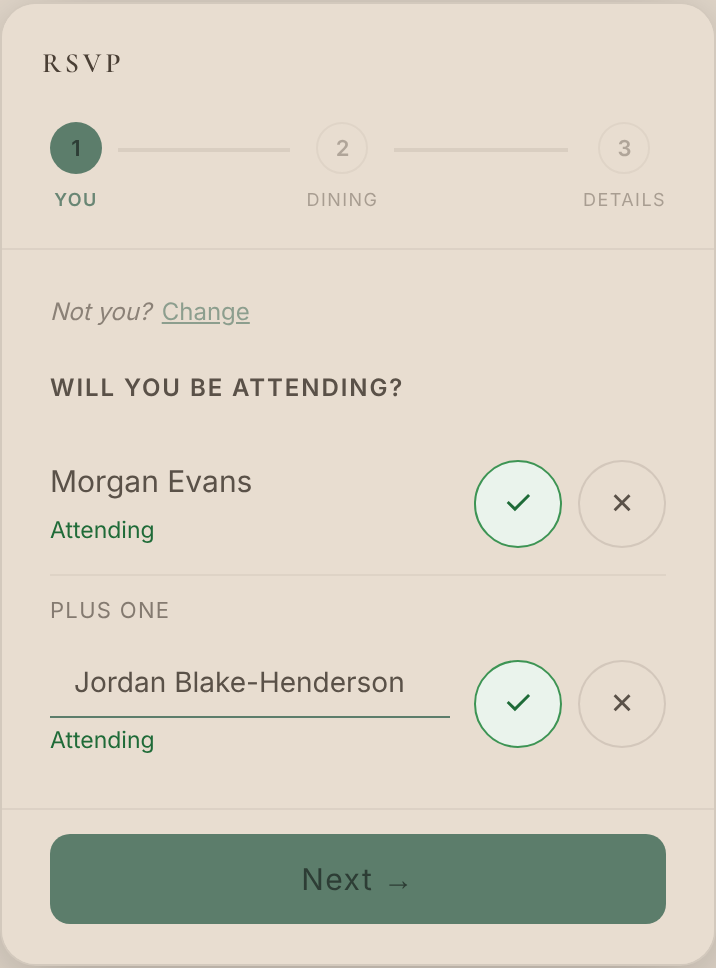
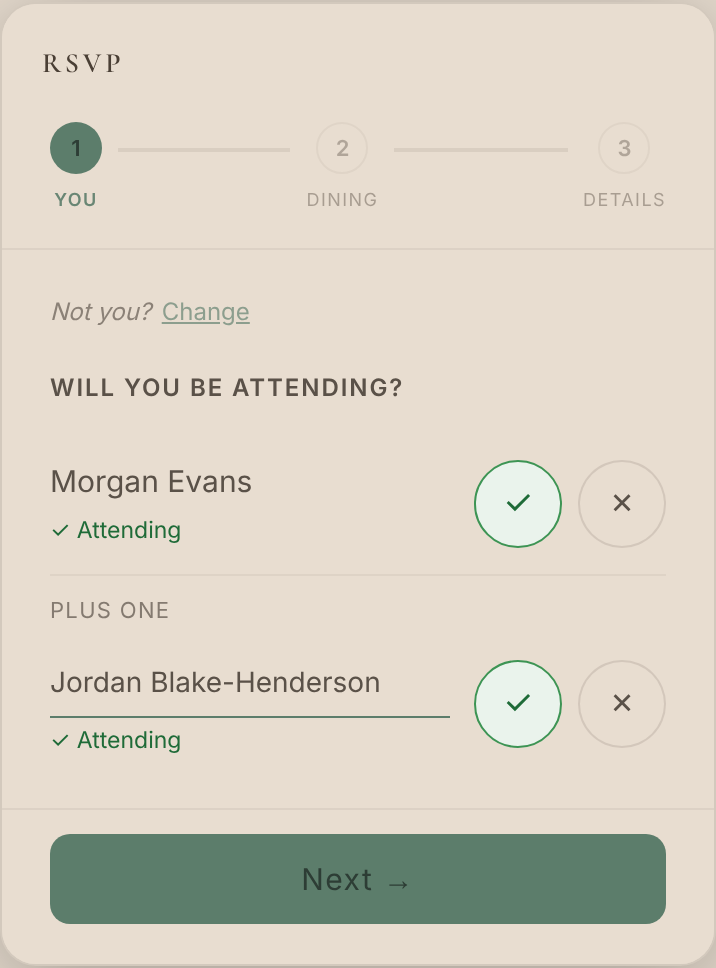
RSVP step 1: tick/cross before Attending/Declined; plus-one name aligned left with the guest names — pending review
Claude-Session: https://claude.ai/code/session_019ebu91FgpPSyuHTGFmYJXP

Changed region(s): [[0.0615, 0.6818, 0.5531, 0.7128], [0.0615, 0.7438, 0.2458, 0.7748], [0.0615, 0.5269, 0.2458, 0.5579]]

diff --git a/js/website.js b/js/website.js
@@ -5552,7 +5552,7 @@ function _wbBuildSite(forDownload){
   // choice spelled out under the name ("Attending" / "Declined").
   function _attSt(m){
     var c=m.att===true?' yes':m.att===false?' no':'';
-    var t=m.att===true?'Attending':m.att===false?'Declined':'Tap &#10003; or &#10007;';
+    var t=m.att===true?'&#10003; Attending':m.att===false?'&#10007; Declined':'Tap &#10003; or &#10007;';
     return '<span class="member-st'+c+'">'+t+'</span>';
   }
   function _attBtns(i,m,who){
@@ -5573,7 +5573,7 @@ function _wbBuildSite(forDownload){
       group.forEach(function(m,i){
         if(!m.isPlus1)return;
         var pn=_esc(plus1Names[m.id]||'');
-        html+='<div class="plus-one-added"><p class="plus-one-label">Plus one</p><div class="member-row"><div class="member-name"><input class="plus-one-name-input" type="text" placeholder="Enter their full name\\u2026" value="'+pn+'" data-pid="'+m.id+'" oninput="window._uvSetP1Name(this)" style="width:100%;margin-bottom:0">'+_attSt(m)+'</div>'+_attBtns(i,m,plus1Names[m.id]||'your plus one')+'</div></div>';
+        html+='<div class="plus-one-added"><p class="plus-one-label">Plus one</p><div class="member-row"><div class="member-name"><input class="plus-one-name-input" type="text" placeholder="Enter their full name\\u2026" value="'+pn+'" data-pid="'+m.id+'" oninput="window._uvSetP1Name(this)" style="width:100%;margin-bottom:0;padding-left:0;padding-right:0;text-align:left">'+_attSt(m)+'</div>'+_attBtns(i,m,plus1Names[m.id]||'your plus one')+'</div></div>';
       });
     }
     container.innerHTML=html;
